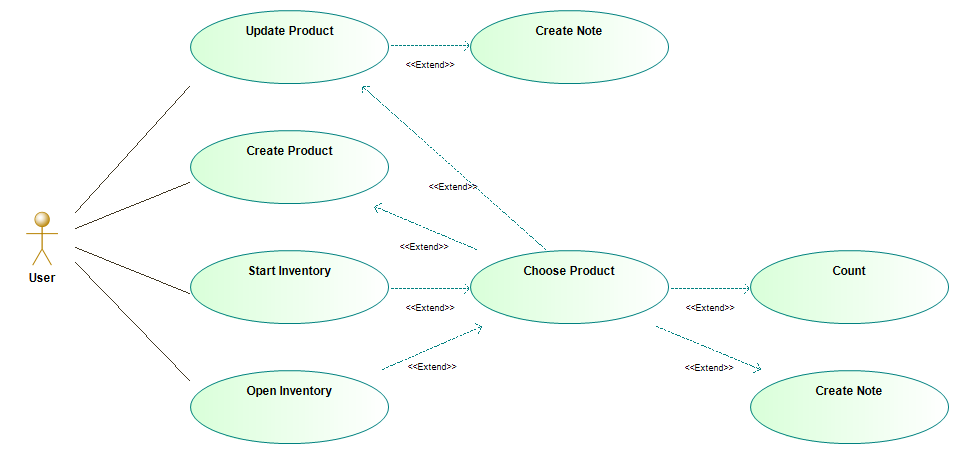
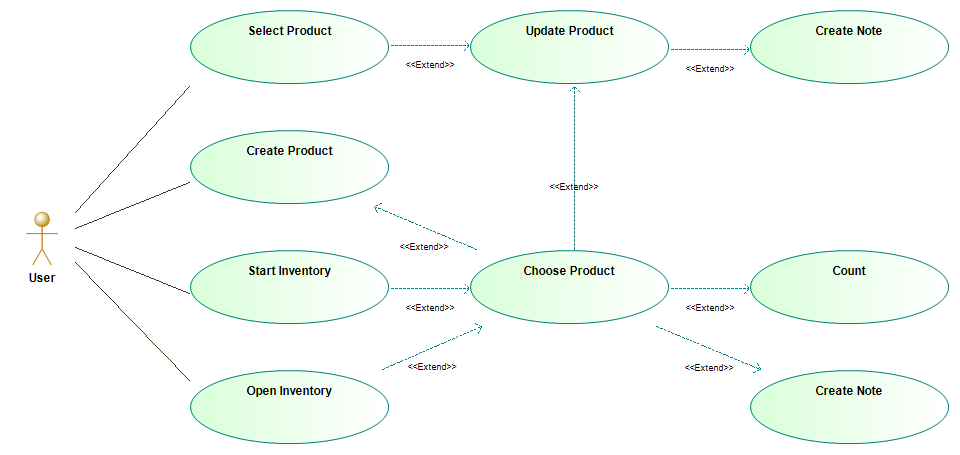
improving documentation

diff --git a/docs/DemoProject.md b/docs/DemoProject.md
@@ -1,12 +1,20 @@
 # Occasionally Connected Inventory Application
 
-## The Scenario
+## The Test Scenario
+
+Multiple users are tasked to do an inventory of a warehouse using mobile devices where the network connectivity is intermittent at best. They count the proudcts they found creating them in the system if they don't exist, but as they are not very organised sometimes they count or even create the same product concurrently while offline. 
 
 ## Use Cases
+
+Each user opens the application and can start with one of 4 actions: create new product, select an existing product, start a new inventory, or open an existing inventory. When in an inventory any user can choose a product and provide the count of that product, or create a note. 
+
+When all users are on-line then they each should see the changes made by the others, but when they go off-line they should still be able to create, update and count products with changes merged later into a single consistent data set.
 
 ![Use-case diagram](./Diagrams/InventoryUseCases.png)
 
 ## Domain Model
+
+As it is just a demo project, it is not necessary to make it feature reach. The model is intentially as simple as possible with no authorisation, auditing, user registration, ability to manage or delete users, delete inventories or products. The model needs to be only complex enough to allow demonstration of synchronisation and conflict resolution between properties of a model tree including different data types (both simple and complex), aggregates and compositions.
 
 ![Domain model diagram](./Diagrams/InventoryDomainModel.png)
 

diff --git a/README.md b/README.md
@@ -46,7 +46,7 @@ In the above, proposed implementation the key element provided by the library is
 
 ![Proposed Implementation Improvements](./docs/Diagrams/ProposedImplementationImpact.png)
 
-As shown above none of the domain specific classes (`Entity` or `ViewModel`) have any dependency on any aspect of historical modelling, which is used behind the scenes to manage the object synchronisation between devices. 
+As shown above none of the domain specific entities have any dependency on any part of historical modelling and only the view model, or any other application layer needs to be aware of the `Manager` implementation. It could be possible to make everything but the manager to an internal type. 
 
 It might be necessary for some part of the domain specific classes to be aware of the historical modelling concepts to manage conflicts, but it might also be possible to implement some sort of automatic conflict resolution, but this architecture should allow to add benefits of historical modelling to an existing system regardless of how it is implemented right now. 
 

diff --git a/docs/ProjectIdeas.md b/docs/ProjectIdeas.md
@@ -8,7 +8,7 @@ Having multiple people express opinion on a particular subject to assess risk, v
 
 ## Inventory / Stock management
 
-A stock inventory presents a number of challanges. Frequently they are taken in places with intermittent network connectivity, and potentially by multiple people at the same time. There is some potential for automated conflict resolution with things being counted mulitple times, perhaps with different values. See the [detail description](./docs/DemoProject.md) of the demo problem and projcet. 
+A stock inventory presents a number of challanges. Frequently they are taken in places with intermittent network connectivity, and potentially by multiple people at the same time. There is some potential for automated conflict resolution with things being counted mulitple times, perhaps with different values. See the [detail description](./DemoProject.md) of the demo problem and projcet. 
 
 ## Shopping Basket
 
